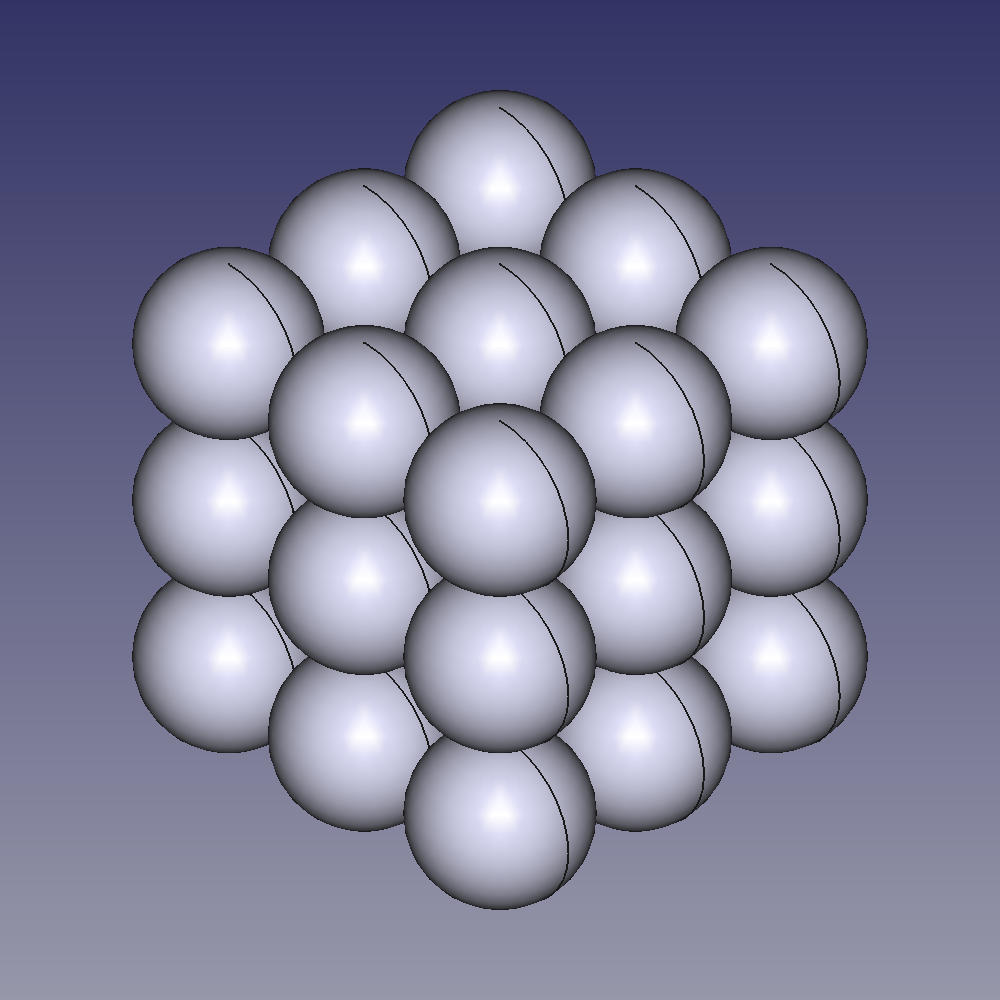
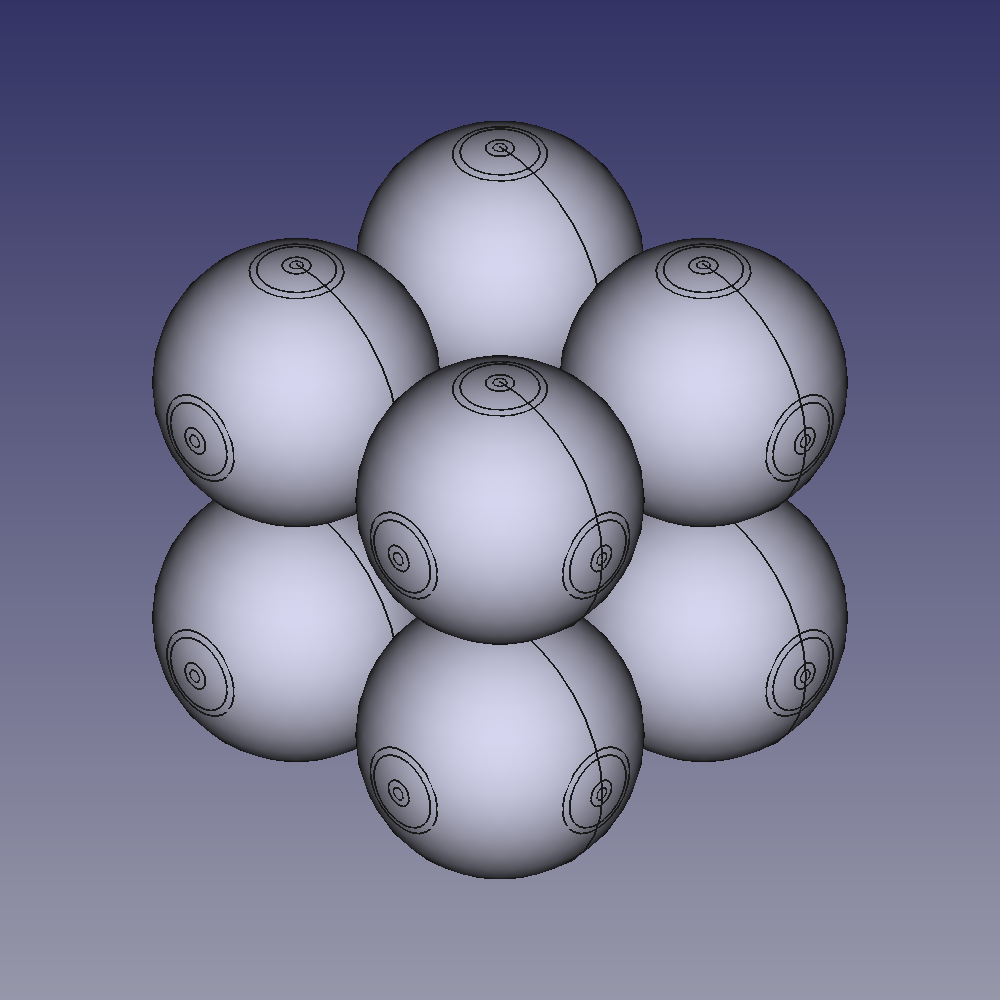
Enhance spherified_cube.py
- Enhanced description for `spherified_cube.py` to reflect changes from "cylinders" to "rods".
- Adjusted sphere and rod parameters in `spherified_cube.py`:
  - Added reinforcement spheres to the rod structure.
  - Removed cylinder shortening logic and restructured rod creation.

diff --git a/spherified_cube.py b/spherified_cube.py
@@ -3,23 +3,41 @@ import FreeCAD, Part
 import utils
 
 # Parameters
-sphere_radius = 10              # Outer radius of spheres
-cylinder_radius = 1
-wall_thickness = 0.75           # Thickness of the hollow sphere walls
+sphere_radius = 15              # Outer radius of spheres
+rod_radius = 1.5
+reinforcement_radius = 5
+wall_thickness = 0.8            # Thickness of the hollow sphere walls
 overlap_radius = 0.1            # Additional radius for sphere overlap
-cylinder_shorten = 0.25         # Shortening length for cylinders (from both ends)
 distance = sphere_radius * 2    # Distance between sphere centers
-dimension = 3                   # Default dimension (3x3x3)
+dimension = 2
 cube_size = distance * dimension
 
 # Export paths
 stl_file_path = os.path.expanduser("~/SpherifiedCube.stl")
 png_file_path = os.path.expanduser("~/SpherifiedCube.png")
 
-doc = FreeCAD.ActiveDocument
+
+def create_hollow_sphere(radius, center, wall_thickness):
+    """Create a hollow sphere at the given center."""
+    outer_sphere = Part.makeSphere(radius, center)
+    inner_sphere = Part.makeSphere(radius - wall_thickness, center)
+    return outer_sphere.cut(inner_sphere)
+
+
+def create_rod(radius, height, point, direction, wall_thickness):
+    """Create a rod at the given point in the specified direction."""
+    outer_cylinder = Part.makeCylinder(radius, height, point, direction)
+    inner_cylinder = Part.makeCylinder(radius - wall_thickness, height, point, direction)
+    reinforcement_sphere1 = create_hollow_sphere(reinforcement_radius, point, wall_thickness)
+    end_point = point + direction.normalize() * height
+    reinforcement_sphere2 = create_hollow_sphere(reinforcement_radius, end_point, wall_thickness)
+    return outer_cylinder.cut(inner_cylinder).fuse(reinforcement_sphere1).fuse(reinforcement_sphere2)
+
 
 def create_structure():
-    shapes = []  # Store both hollow spheres and cylinders for later SVG export
+    shapes = []
+    sphere_centers = []
+
     for x in range(dimension):
         for y in range(dimension):
             for z in range(dimension):
@@ -28,33 +46,52 @@ def create_structure():
                     y * distance + sphere_radius,
                     z * distance + sphere_radius
                 )
-                outer_sphere = Part.makeSphere(sphere_radius + overlap_radius, sphere_center)
-                inner_sphere = Part.makeSphere(sphere_radius + overlap_radius - wall_thickness, sphere_center)
-                hollow_sphere = outer_sphere.cut(inner_sphere)
-                Part.show(hollow_sphere)
-                shapes.append(hollow_sphere)
+                sphere_centers.append(sphere_center)
 
-    for x in range(dimension):
-        for y in range(dimension):
-            # Bottom face (z = 0)
-            point_bottom = FreeCAD.Vector(x * distance + sphere_radius, y * distance + sphere_radius, cylinder_shorten)
-            cylinder_bottom = Part.makeCylinder(cylinder_radius, cube_size - 2 * cylinder_shorten, point_bottom, FreeCAD.Vector(0, 0, 1))
-            Part.show(cylinder_bottom)
-            shapes.append(cylinder_bottom)
+    for sphere_center in sphere_centers:
+        hollow_sphere = create_hollow_sphere(sphere_radius + overlap_radius, sphere_center, wall_thickness)
+        reinforcement_sphere = create_hollow_sphere(reinforcement_radius, sphere_center, wall_thickness)
+        combined_sphere = hollow_sphere.fuse(reinforcement_sphere)
 
-            # Front face (y = 0)
-            point_front = FreeCAD.Vector(x * distance + sphere_radius, cylinder_shorten, y * distance + sphere_radius)
-            cylinder_front = Part.makeCylinder(cylinder_radius, cube_size - 2 * cylinder_shorten, point_front, FreeCAD.Vector(0, 1, 0))
-            Part.show(cylinder_front)
-            shapes.append(cylinder_front)
+        Part.show(reinforcement_sphere)
+        Part.show(combined_sphere)
+        shapes.append(combined_sphere)
 
-            # Left face (x = 0)
-            point_left = FreeCAD.Vector(cylinder_shorten, x * distance + sphere_radius, y * distance + sphere_radius)
-            cylinder_left = Part.makeCylinder(cylinder_radius, cube_size - 2 * cylinder_shorten, point_left, FreeCAD.Vector(1, 0, 0))
-            Part.show(cylinder_left)
-            shapes.append(cylinder_left)
+    # Directions for rods and corresponding positions using tuples as keys
+    directions = [
+        (0, 0, 1),  # Z direction (bottom face)
+        (0, 1, 0),  # Y direction (front face)
+        (1, 0, 0)  # X direction (left face)
+    ]
+
+    positions = {
+        (0, 0, 1): lambda i, j: FreeCAD.Vector(i * distance + sphere_radius, j * distance + sphere_radius, 0),
+        (0, 1, 0): lambda i, j: FreeCAD.Vector(i * distance + sphere_radius, 0, j * distance + sphere_radius),
+        (1, 0, 0): lambda i, j: FreeCAD.Vector(0, i * distance + sphere_radius, j * distance + sphere_radius),
+    }
+
+    for i in range(dimension):
+        for j in range(dimension):
+            for d in directions:
+                point = positions[d](i, j)
+                rod = create_rod(rod_radius, cube_size, point, FreeCAD.Vector(*d), wall_thickness)
+
+                start_point = point + FreeCAD.Vector(*d).normalize() * sphere_radius
+                end_point = point + FreeCAD.Vector(*d).normalize() * (cube_size - sphere_radius)
+                solid_sphere1 = Part.makeSphere(sphere_radius, start_point)
+                solid_sphere2 = Part.makeSphere(sphere_radius, end_point)
+                cylinder_length = (end_point - start_point).Length
+                solid_cylinder = Part.makeCylinder(sphere_radius, cylinder_length, start_point,
+                                                   FreeCAD.Vector(*d).normalize())
+                shape = solid_sphere1.fuse(solid_sphere2).fuse(solid_cylinder)
+
+                rod = rod.common(shape)
+
+                Part.show(rod)
+                shapes.append(rod)
 
     return shapes
+
 
 # Main execution
 shapes = create_structure()

diff --git a/README.md b/README.md
@@ -3,7 +3,9 @@
 A collection of FreeCAD Python scripts for constructing geometric figures. Each script generates a 3D model of a specific shape using parametric geometry, allowing for customization and export to STL for 3D printing.
 
 <p float="left">
-  <img src="media/SpherifiedCube.png" width="45%" />
+  <img src="media/SpherifiedCube.png" width="33%" />
+  <img src="media/SpherifiedCube_01.png" width="33%" />
+  <img src="media/SpherifiedCube_02.png" width="33%" />
   <img src="media/GridCube.png" width="45%" />
   <img src="media/Sphere1.png" width="45%" />
   <img src="media/Sphere2.png" width="45%" />
@@ -12,8 +14,8 @@ A collection of FreeCAD Python scripts for constructing geometric figures. Each 
 
 ## Features
 
-- **spherified_cube.py**: Generates a cube composed of overlapping hollow spheres, connected by cylinders.
-  - Configurable sphere radius, cylinder radius, wall thickness, and cylinder shortening.
+- **spherified_cube.py**: Generates a cube composed of overlapping hollow spheres, connected by rods.
+  - Configurable sphere radius, cylinder radius, wall thickness
 - **grid_cube.py**: Generates a grid cube structure made of rods, with spheres at each corner.
   - Customizable cube size and rod radius.
 - **sphere1.py**: Represents a hollow sphere with eight cylindrical holes directed toward the vertices of a cube.
